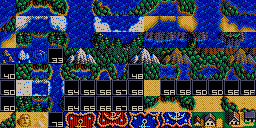
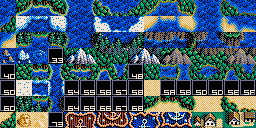
sea time sequential change

diff --git a/code/client/game.py b/code/client/game.py
@@ -61,7 +61,9 @@ class Game():
         self.all_roles = {}
         Role.GAME = self
 
+        # local data
         self.think_time_in_battle = c.THINK_TIME_IN_BATTLE
+        self.time_of_day_index = 0
 
         # load assets
         self.font = None
@@ -241,4 +243,13 @@ class Game():
                         self.my_role.y >= c.WORLD_MAP_MIN_Y_TO_DRAW_NEW_PARTIAL_WORLD_MAP:
                     if self.my_role.x >= c.WORLD_MAP_MIN_X_TO_DRAW_NEW_PARTIAL_WORLD_MAP and \
                             self.my_role.x <= c.WORLD_MAP_MAX_X_TO_DRAW_NEW_PARTIAL_WORLD_MAP:
-                        self.images['sea'] = self.map_maker.make_partial_world_map(my_tile_x, my_tile_y)
+
+                        # get time_of_day
+                        if (self.time_of_day_index + 1) >= len(c.TIME_OF_DAY_OPTIONS):
+                            self.time_of_day_index = 0
+                        else:
+                            self.time_of_day_index += 1
+                        time_of_day = c.TIME_OF_DAY_OPTIONS[self.time_of_day_index]
+
+                        # make sea image
+                        self.images['sea'] = self.map_maker.make_partial_world_map(my_tile_x, my_tile_y, time_of_day)

diff --git a/code/client/gui.py b/code/client/gui.py
@@ -1143,7 +1143,9 @@ class Harbor():
             port_tile_y = hash_ports_meta_data[int(self.game.my_role.map) + 1]['y']
             print(port_tile_x, port_tile_y)
 
-            self.game.images['sea'] = self.game.map_maker.make_partial_world_map(port_tile_x, port_tile_y)
+            self.game.time_of_day_index = 1
+            time_of_day = c.TIME_OF_DAY_OPTIONS[self.game.time_of_day_index]
+            self.game.images['sea'] = self.game.map_maker.make_partial_world_map(port_tile_x, port_tile_y, time_of_day)
 
             # send
             self.game.connection.send('change_map', ['sea'])
